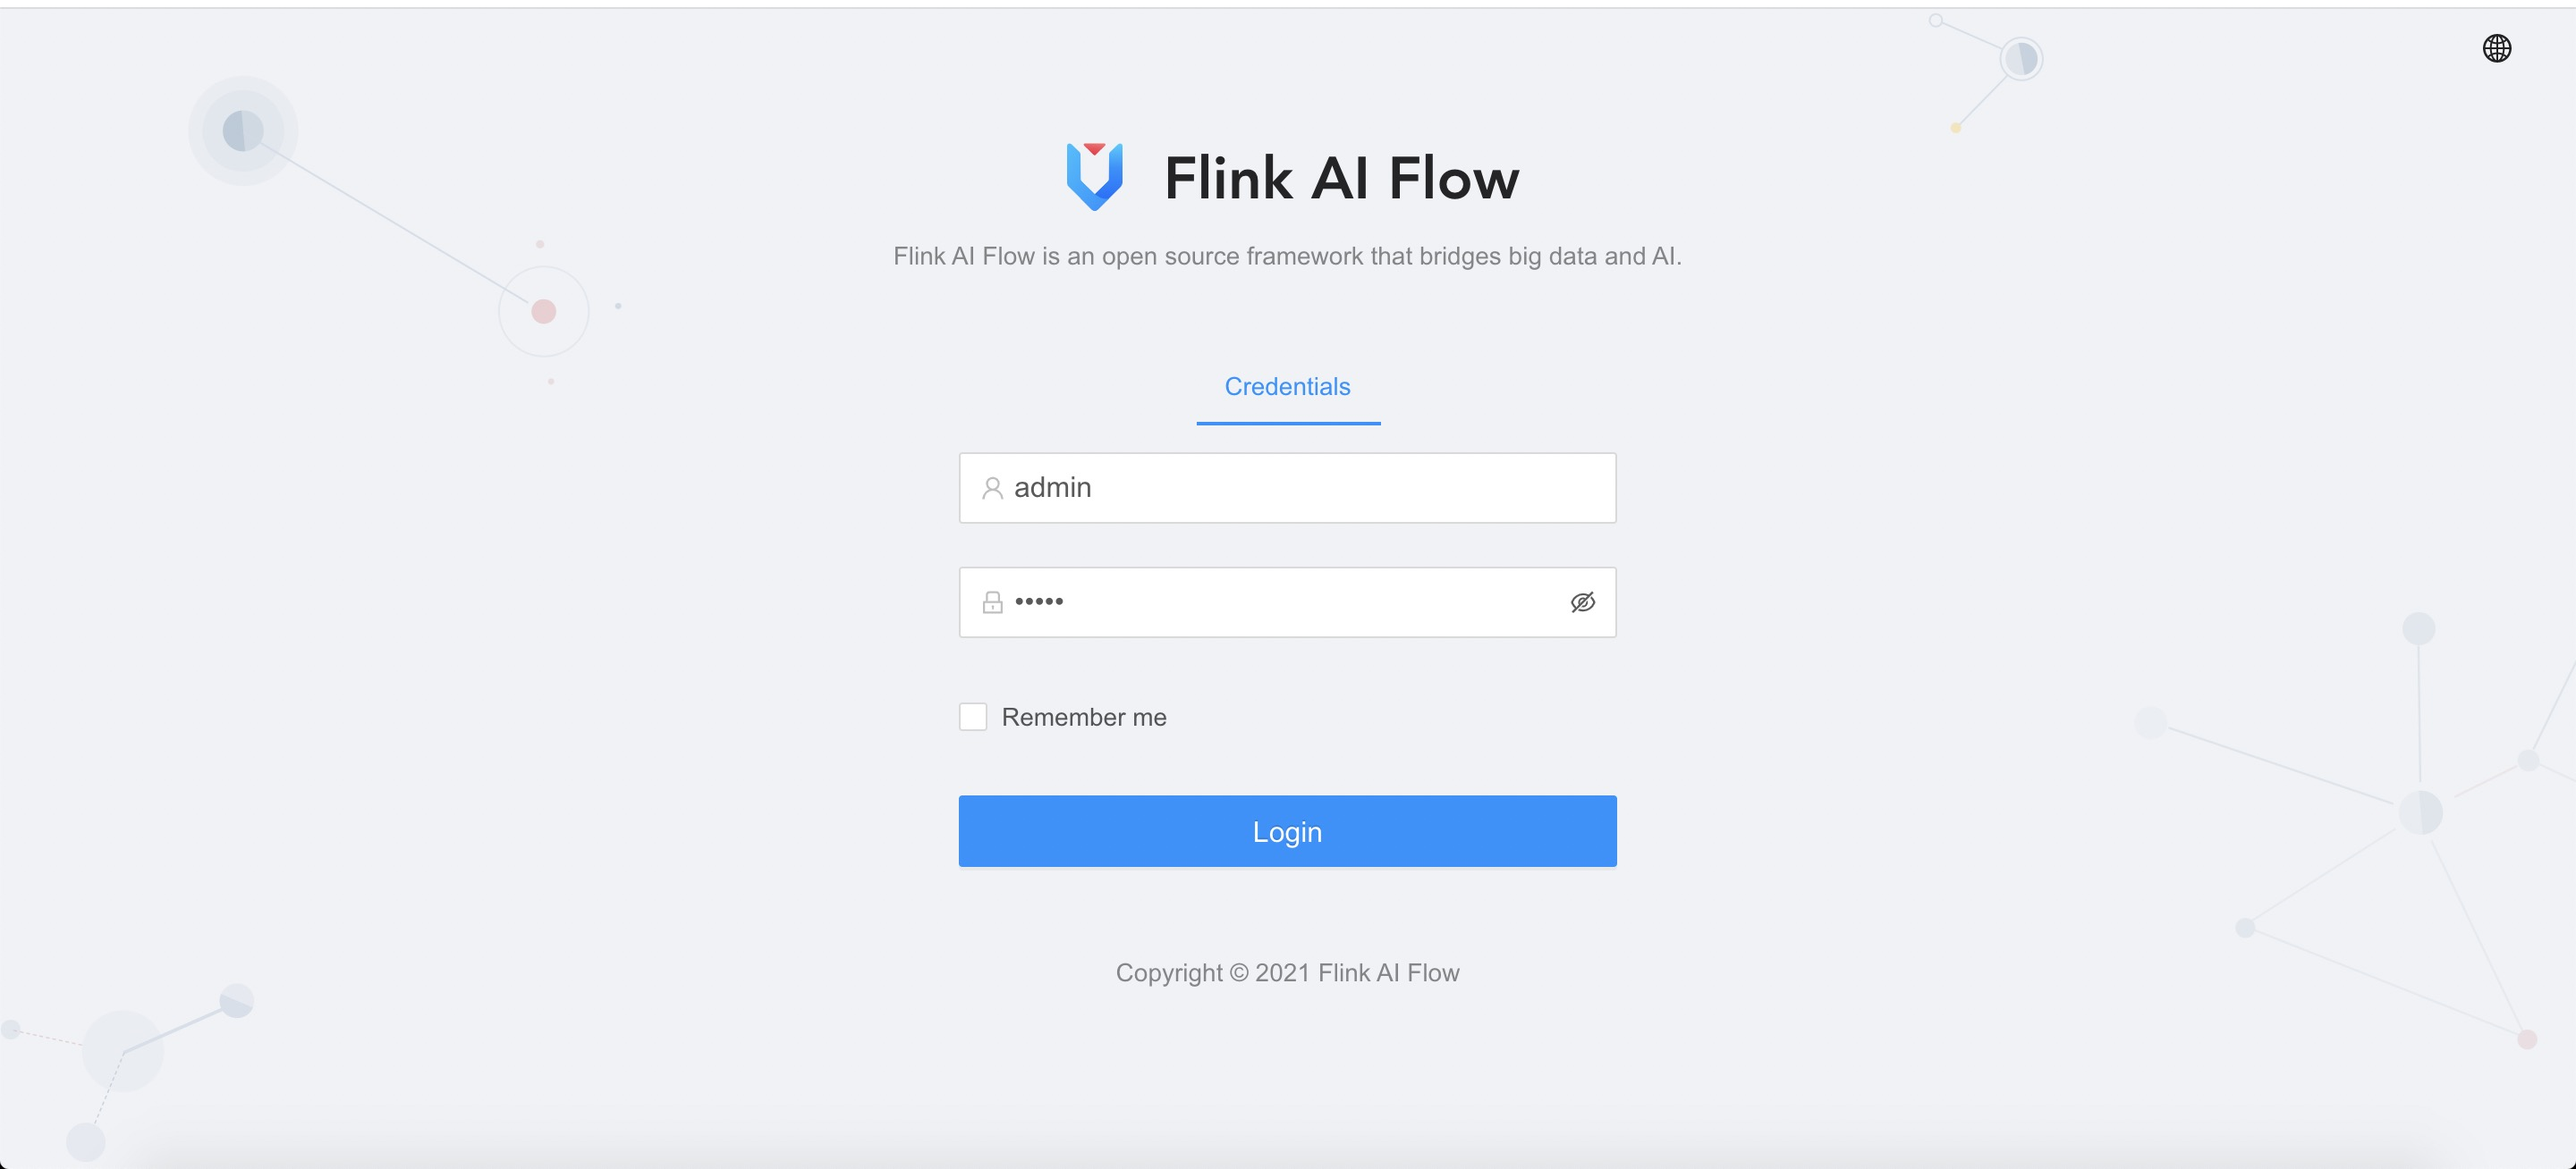
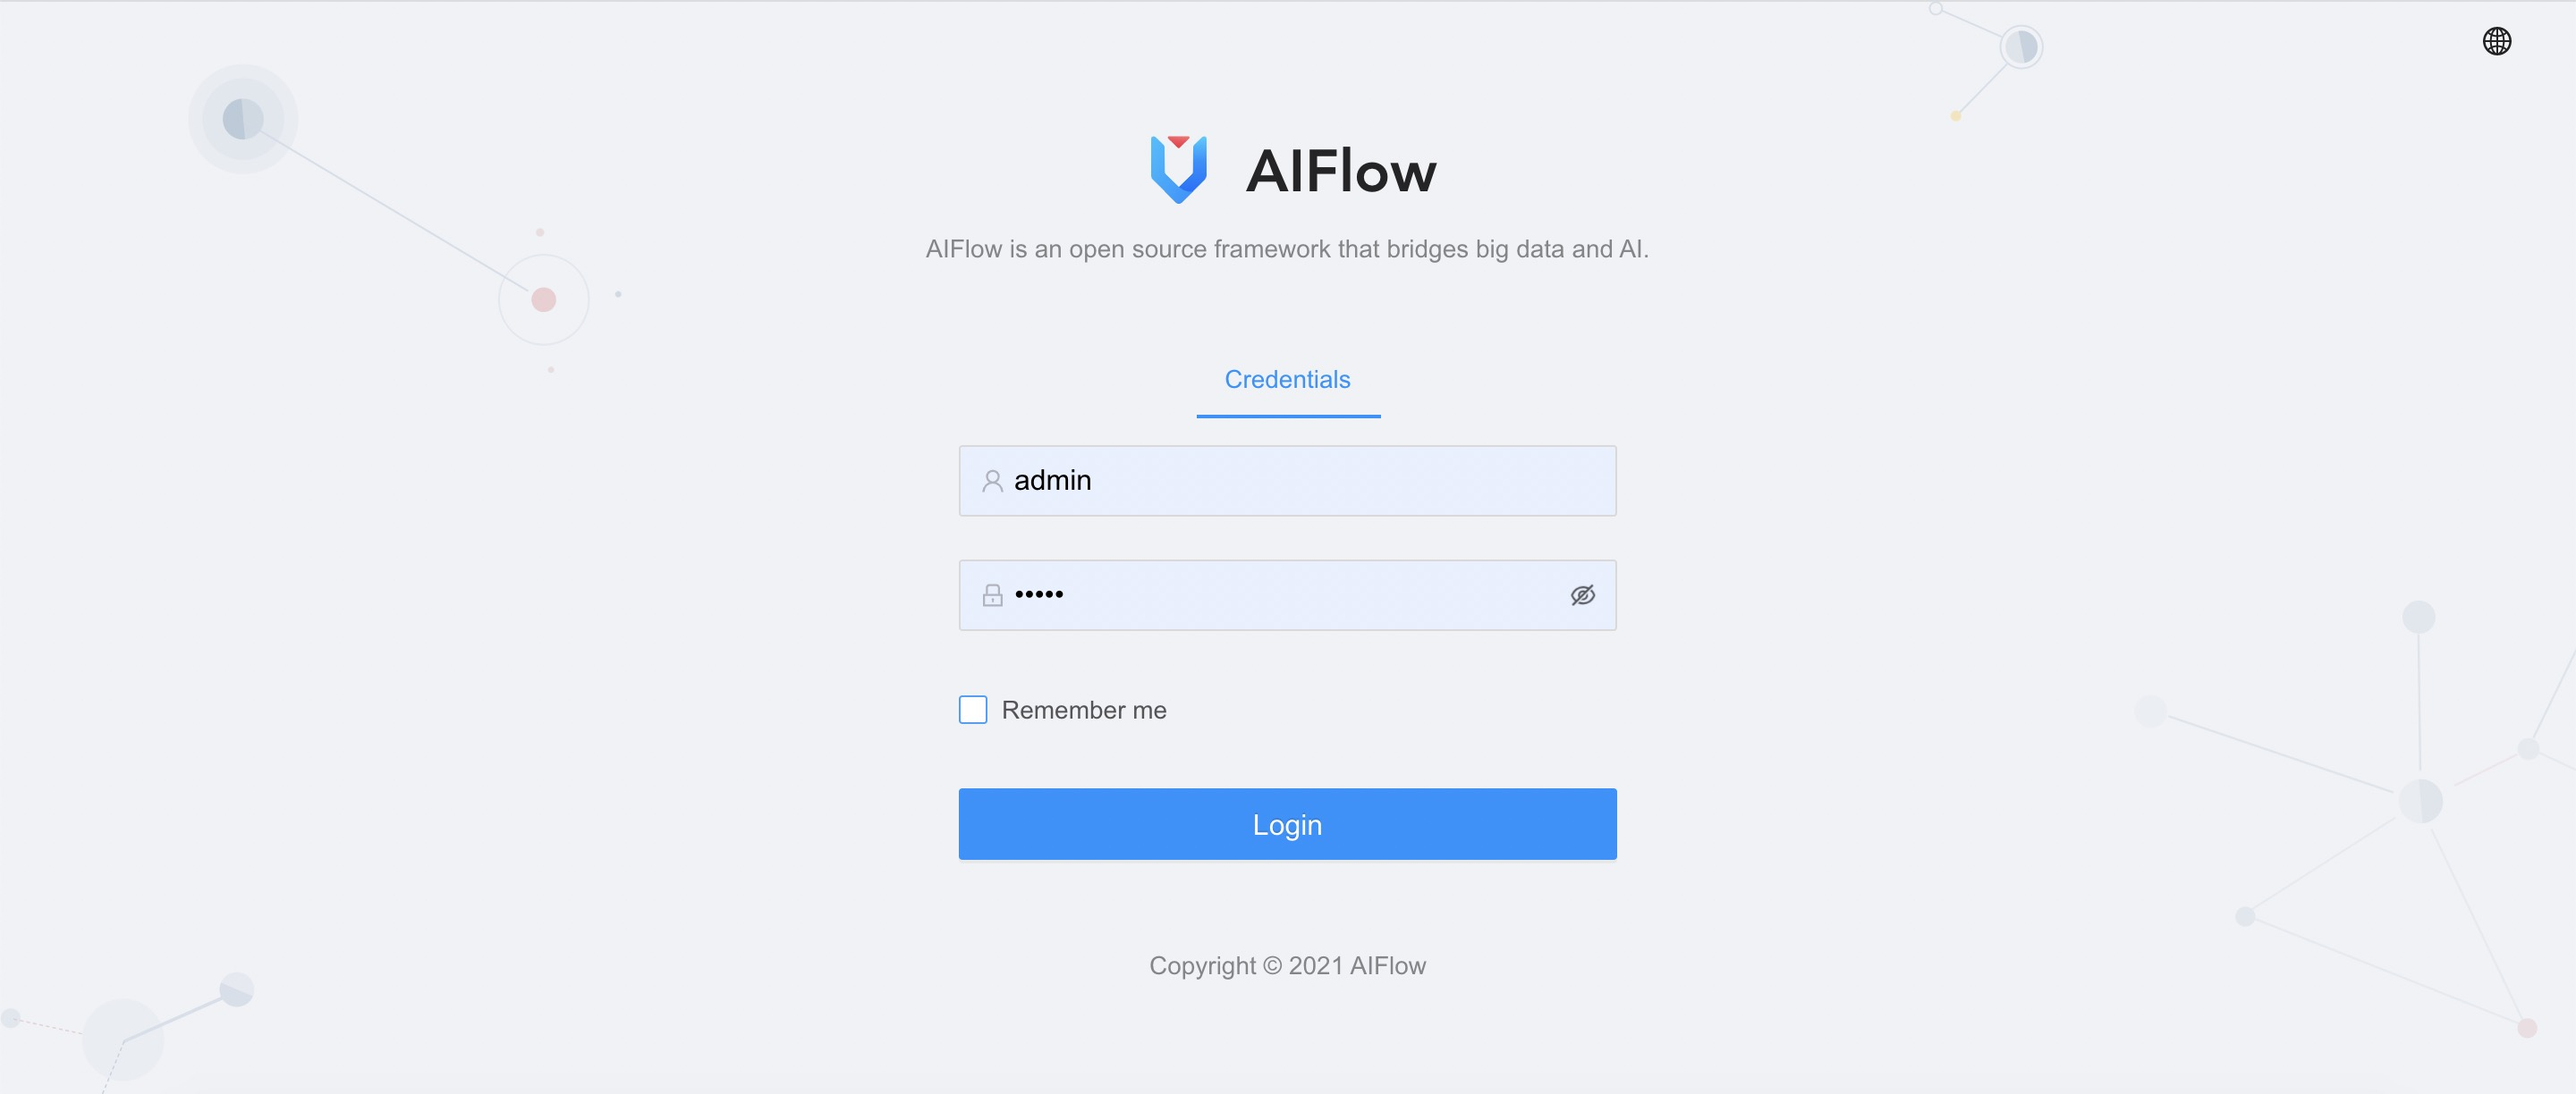
[AIFlow] Updates the 'Flink AI Flow' in the AIFlow frontend to 'AIFlow' (#132)

diff --git a/ai_flow/frontend/public/index.html b/ai_flow/frontend/public/index.html
@@ -22,7 +22,7 @@ under the License.
     <meta http-equiv="X-UA-Compatible" content="IE=edge">
     <meta name="viewport" content="width=device-width,initial-scale=1.0">
     <link rel="icon" href="<%= BASE_URL %>logo.png">
-    <title>Flink AI Flow</title>
+    <title>AIFlow</title>
     <style>.first-loading-wrp{display:flex;justify-content:center;align-items:center;flex-direction:column;min-height:420px;height:100%}.first-loading-wrp>h1{font-size:128px}.first-loading-wrp .loading-wrp{padding:98px;display:flex;justify-content:center;align-items:center}.dot{animation:antRotate 1.2s infinite linear;transform:rotate(45deg);position:relative;display:inline-block;font-size:32px;width:32px;height:32px;box-sizing:border-box}.dot i{width:14px;height:14px;position:absolute;display:block;background-color:#1890ff;border-radius:100%;transform:scale(.75);transform-origin:50% 50%;opacity:.3;animation:antSpinMove 1s infinite linear alternate}.dot i:nth-child(1){top:0;left:0}.dot i:nth-child(2){top:0;right:0;-webkit-animation-delay:.4s;animation-delay:.4s}.dot i:nth-child(3){right:0;bottom:0;-webkit-animation-delay:.8s;animation-delay:.8s}.dot i:nth-child(4){bottom:0;left:0;-webkit-animation-delay:1.2s;animation-delay:1.2s}@keyframes antRotate{to{-webkit-transform:rotate(405deg);transform:rotate(405deg)}}@-webkit-keyframes antRotate{to{-webkit-transform:rotate(405deg);transform:rotate(405deg)}}@keyframes antSpinMove{to{opacity:1}}@-webkit-keyframes antSpinMove{to{opacity:1}}</style>
     <!-- require cdn assets css -->
     <% for (var i in htmlWebpackPlugin.options.cdn && htmlWebpackPlugin.options.cdn.css) { %>
@@ -39,7 +39,7 @@ under the License.
         <div class="loading-wrp">
           <span class="dot dot-spin"><i></i><i></i><i></i><i></i></span>
         </div>
-        <div style="display: flex; justify-content: center; align-items: center;">Flink AI Flow</div>
+        <div style="display: flex; justify-content: center; align-items: center;">AIFlow</div>
       </div>
     </div>
     <!-- require cdn assets js -->

diff --git a/ai_flow/frontend/src/utils/screenLog.js b/ai_flow/frontend/src/utils/screenLog.js
@@ -20,7 +20,7 @@
 /* eslint-disable */
 export const printANSI = () => {
   console.clear()
-  console.log('[Flink AI Flow] created()')
+  console.log('[AIFlow] created()')
   // ASCII - ANSI Shadow
   let text = `
   _____ _ _       _         _    ___   _____ _               
@@ -31,5 +31,5 @@ export const printANSI = () => {
                                                              
 `
   console.log(`%c${text}`, 'color: #fc4d50; font-weight: bold')
-  console.log('%cThanks for using Flink AI Flow!', 'color: #fff; font-size: 14px; font-weight: 300; text-shadow:#000 1px 0 0,#000 0 1px 0,#000 -1px 0 0,#000 0 -1px 0;')
+  console.log('%cThanks for using AIFlow!', 'color: #fff; font-size: 14px; font-weight: 300; text-shadow:#000 1px 0 0,#000 0 1px 0,#000 -1px 0 0,#000 0 -1px 0;')
 }

diff --git a/ai_flow/frontend/src/mock/index.js b/ai_flow/frontend/src/mock/index.js
@@ -21,9 +21,9 @@ import { isIE } from '@/utils/util'
 
 if (process.env.NODE_ENV !== 'production' || process.env.VUE_APP_PREVIEW === 'true') {
   if (isIE()) {
-    console.error('[Flink AI Flow] ERROR: `mockjs` NOT SUPPORT `IE` PLEASE DO NOT USE IN `production` ENV.')
+    console.error('[AIFlow] ERROR: `mockjs` NOT SUPPORT `IE` PLEASE DO NOT USE IN `production` ENV.')
   }
-  console.log('[Flink AI Flow] mock mounting')
+  console.log('[AIFlow] mock mounting')
   const Mock = require('mockjs2')
   require('./services/auth')
   require('./services/user')
@@ -32,5 +32,5 @@ if (process.env.NODE_ENV !== 'production' || process.env.VUE_APP_PREVIEW === 'tr
   Mock.setup({
     timeout: 800
   })
-  console.log('[Flink AI Flow] mock mounted')
+  console.log('[AIFlow] mock mounted')
 }

diff --git a/ai_flow/frontend/src/layouts/UserLayout.vue b/ai_flow/frontend/src/layouts/UserLayout.vue
@@ -23,7 +23,7 @@ limitations under the License. -->
           <div class="header">
             <a href="/">
               <img src="~@/assets/logo.svg" class="logo" alt="logo">
-              <span class="title">Flink AI Flow</span>
+              <span class="title">AIFlow</span>
             </a>
           </div>
           <div class="desc">
@@ -35,7 +35,7 @@ limitations under the License. -->
 
         <div class="footer">
           <div class="copyright">
-            Copyright &copy; 2021 Flink AI Flow
+            Copyright &copy; 2021 AIFlow
           </div>
         </div>
       </div>

diff --git a/ai_flow/frontend/src/components/GlobalFooter/index.vue b/ai_flow/frontend/src/components/GlobalFooter/index.vue
@@ -19,7 +19,7 @@ limitations under the License. -->
       <a href="https://github.com/alibaba" target="_blank">@alibaba</a>
     </template>
     <template v-slot:copyright>
-      <a href="https://github.com/alibaba/flink-ai-extended/flink-ai-flow" target="_blank">Flink AI Flow</a>
+      <a href="https://github.com/flink-extended/ai-flow" target="_blank">AIFlow</a>
     </template>
   </global-footer>
 </template>

diff --git a/ai_flow/frontend/src/locales/lang/en-US.js b/ai_flow/frontend/src/locales/lang/en-US.js
@@ -35,7 +35,7 @@ export default {
 
   'layouts.usermenu.dialog.title': 'Message',
   'layouts.usermenu.dialog.content': 'Are you sure you would like to logout?',
-  'layouts.userLayout.title': 'Flink AI Flow is an open source framework that bridges big data and AI.',
+  'layouts.userLayout.title': 'AIFlow is an open source framework that bridges big data and AI.',
   ...components,
   ...menu,
   ...setting,

diff --git a/ai_flow/frontend/src/core/use.js b/ai_flow/frontend/src/core/use.js
@@ -43,4 +43,4 @@ Vue.use(VueClipboard)
 Vue.use(PermissionHelper)
 Vue.use(VueCropper)
 
-process.env.NODE_ENV !== 'production' && console.warn('[Flink AI Flow] WARNING: Antd now use fulled imported.')
+process.env.NODE_ENV !== 'production' && console.warn('[AIFlow] WARNING: Antd now use fulled imported.')

diff --git a/ai_flow/frontend/src/config/defaultSettings.js b/ai_flow/frontend/src/config/defaultSettings.js
@@ -28,7 +28,7 @@ export default {
   menu: {
     locale: true
   },
-  title: 'Flink AI Flow',
+  title: 'AIFlow',
   pwa: false,
   iconfontUrl: '',
   production: process.env.NODE_ENV === 'production' && process.env.VUE_APP_PREVIEW !== 'true'

diff --git a/ai_flow/frontend/src/components/GlobalHeader/RightContent.vue b/ai_flow/frontend/src/components/GlobalHeader/RightContent.vue
@@ -63,7 +63,7 @@ export default {
   mounted () {
     setTimeout(() => {
       this.currentUser = {
-        name: 'AI Flow'
+        name: 'AIFlow'
       }
     }, 1500)
   }

diff --git a/ai_flow/endpoint/server/server_runner.py b/ai_flow/endpoint/server/server_runner.py
@@ -65,7 +65,7 @@ class AIFlowServerRunner(object):
             self.server_config.set_server_port(str(_PORT))
         global GLOBAL_MASTER_CONFIG
         GLOBAL_MASTER_CONFIG = self.server_config
-        logging.info("AI Flow Master Config {}".format(GLOBAL_MASTER_CONFIG))
+        logging.info("AIFlow Master Config {}".format(GLOBAL_MASTER_CONFIG))
         self.server = AIFlowServer(
             store_uri=self.server_config.get_db_uri(),
             port=str(self.server_config.get_server_port()),

diff --git a/docs/conf.py b/docs/conf.py
@@ -32,7 +32,7 @@ sys.path.insert(0, os.path.abspath('../lib/notification_service/notification_ser
 
 # -- Project information -----------------------------------------------------
 
-project = 'AI Flow'
+project = 'AIFlow'
 author = 'flink-extended'
 
 # The full version, including alpha/beta/rc tags

diff --git a/README.md b/README.md
@@ -1,14 +1,14 @@
-# AI Flow
+# AIFlow
 
 ## Introduction
 
-AI Flow is an open source framework that bridges big data and artificial intelligence. It manages the entire machine learning project lifecycle as a unified workflow, including feature engineering, model training, model evaluation, model service, model inference, monitoring, etc. Throughout the entire workflow, users can choose to use the computing engine like Python, Flink etc.
+AIFlow is an open source framework that bridges big data and artificial intelligence. It manages the entire machine learning project lifecycle as a unified workflow, including feature engineering, model training, model evaluation, model service, model inference, monitoring, etc. Throughout the entire workflow, users can choose to use the computing engine like Python, Flink etc.
 
-In addition to the capability of orchestrating a group of batch jobs, by leveraging an event-based scheduler(enhanced version of Airflow), AI Flow also supports workflows that contain streaming jobs. Such capability is quite useful for complicate real-time machine learning systems as well as other real-time workflows in general.
+In addition to the capability of orchestrating a group of batch jobs, by leveraging an event-based scheduler(enhanced version of Airflow), AIFlow also supports workflows that contain streaming jobs. Such capability is quite useful for complicate real-time machine learning systems as well as other real-time workflows in general.
 
 ## Features
 
-You can use AI Flow to do the following:
+You can use AIFlow to do the following:
 
 ![](https://raw.githubusercontent.com/wiki/flink-extended/ai-flow/images/functions.png)
 
@@ -22,9 +22,9 @@ You can use AI Flow to do the following:
 
 To support online machine learning scenarios, notification service and event-based schedulers are introduced.
 
-AI Flow's current components are:
+AIFlow's current components are:
 
-1. SDK: It defines how to build a machine learning workflow and includes the api of the AI Flow.
+1. SDK: It defines how to build a machine learning workflow and includes the api of the AIFlow.
 
 2. Notification Service: It provides event listening and notification functions.
 
@@ -36,19 +36,19 @@ AI Flow's current components are:
 
 ### QuickStart
 
-You can follow our [Quick Start](https://github.com/flink-extended/ai-flow/wiki/Quick-Start) to get your hands on AI Flow quickly. Besides, you can also take a look at our [Tutorial](https://github.com/flink-extended/ai-flow/wiki/Tutorial) to learn how to write your own workflow. You can use AI Flow according to the guidelines of. 
+You can follow our [Quick Start](https://github.com/flink-extended/ai-flow/wiki/Quick-Start) to get your hands on AIFlow quickly. Besides, you can also take a look at our [Tutorial](https://github.com/flink-extended/ai-flow/wiki/Tutorial) to learn how to write your own workflow. You can use AIFlow according to the guidelines of. 
 
 ### API
 
-Please refer to the [Python API](https://github.com/flink-extended/ai-flow/wiki/Python-API) to find the details of the API supported by AI Flow.
+Please refer to the [Python API](https://github.com/flink-extended/ai-flow/wiki/Python-API) to find the details of the API supported by AIFlow.
 
 ### Design
 
-If you are interested in design principles of AI Flow, please see the [Design](https://github.com/flink-extended/ai-flow/wiki/Design) for more details.
+If you are interested in design principles of AIFlow, please see the [Design](https://github.com/flink-extended/ai-flow/wiki/Design) for more details.
 
 ### Examples
 
-We have provided some examples of AI Flow to help you get a better understanding of how to write a workflow. Please see the [Examples](https://github.com/flink-extended/ai-flow/tree/master/examples/) directory.
+We have provided some examples of AIFlow to help you get a better understanding of how to write a workflow. Please see the [Examples](https://github.com/flink-extended/ai-flow/tree/master/examples/) directory.
 
 ## Reporting bugs
 
@@ -56,11 +56,11 @@ If you encounter any issues please open an issue in GitHub and we encourage you 
 
 ## Contribution
 
-We happily welcome contributions to AI Flow. Please see our [Contribution](https://github.com/flink-extended/ai-flow/wiki/Contribution) for details.
+We happily welcome contributions to AIFlow. Please see our [Contribution](https://github.com/flink-extended/ai-flow/wiki/Contribution) for details.
 
 ## Contact Us
 
-For more information, you can join the **AI Flow Users Group** on [DingTalk](https://www.dingtalk.com) to contact us. The number of the DingTalk group is `35876083`. 
+For more information, you can join the **AIFlow Users Group** on [DingTalk](https://www.dingtalk.com) to contact us. The number of the DingTalk group is `35876083`. 
 
 You can also join the group by scanning the QR code below:
 
